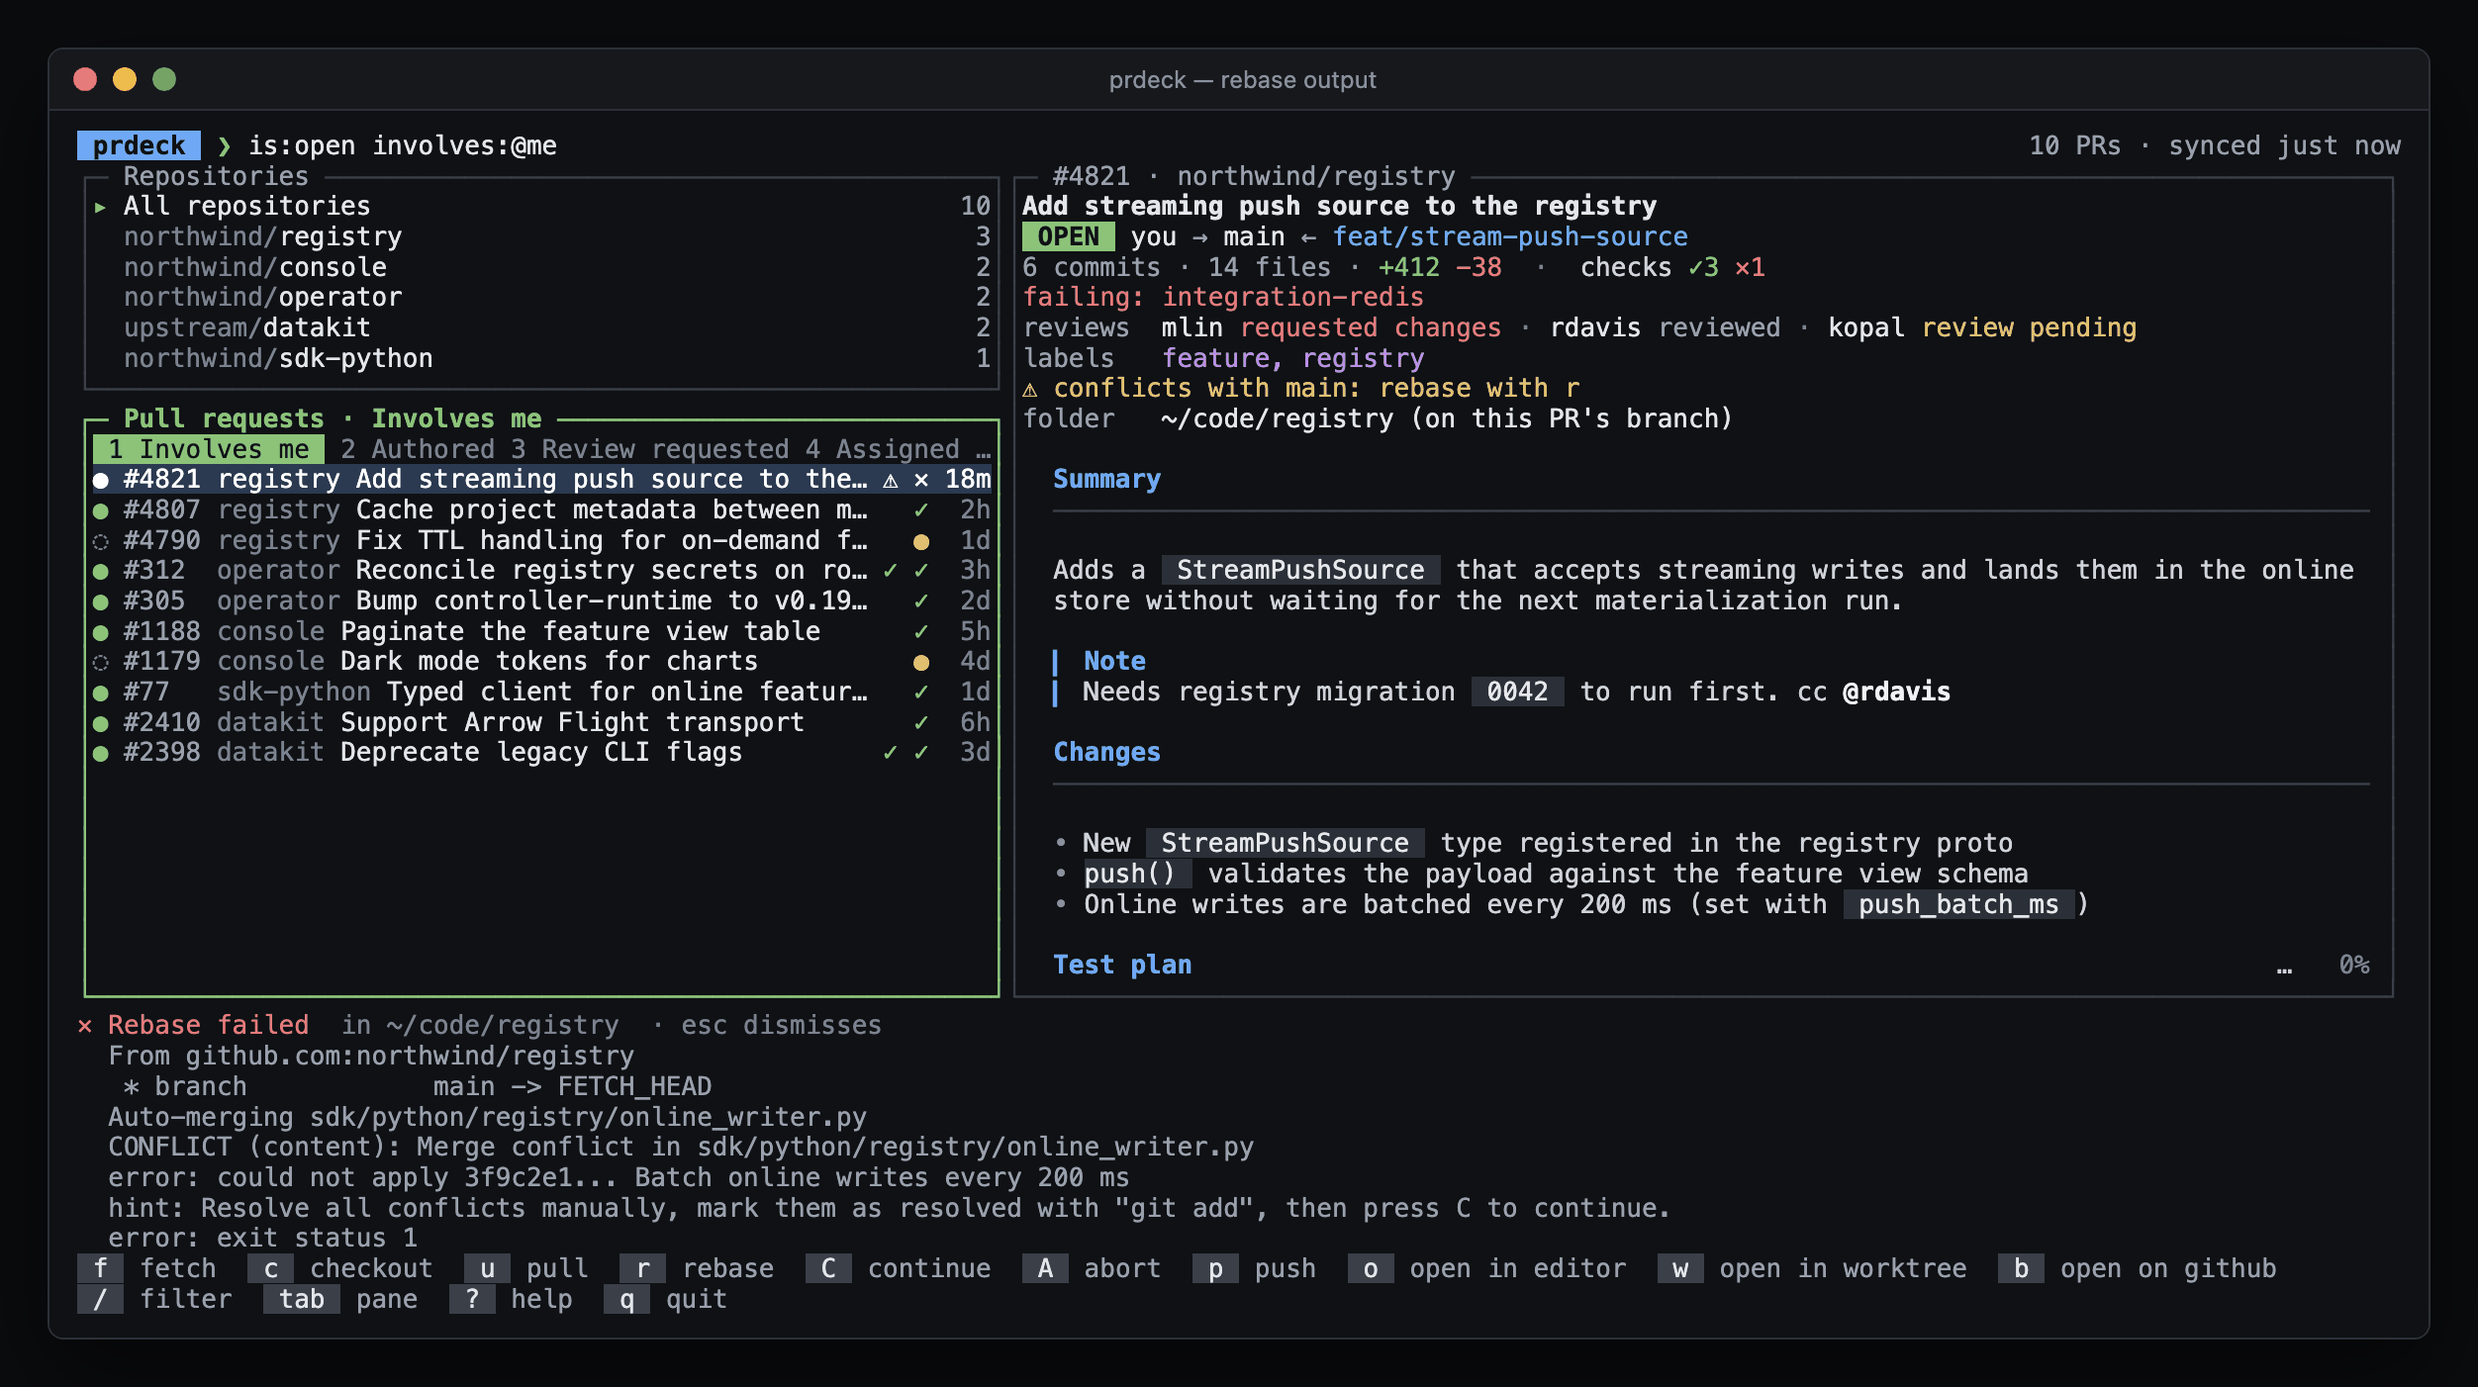
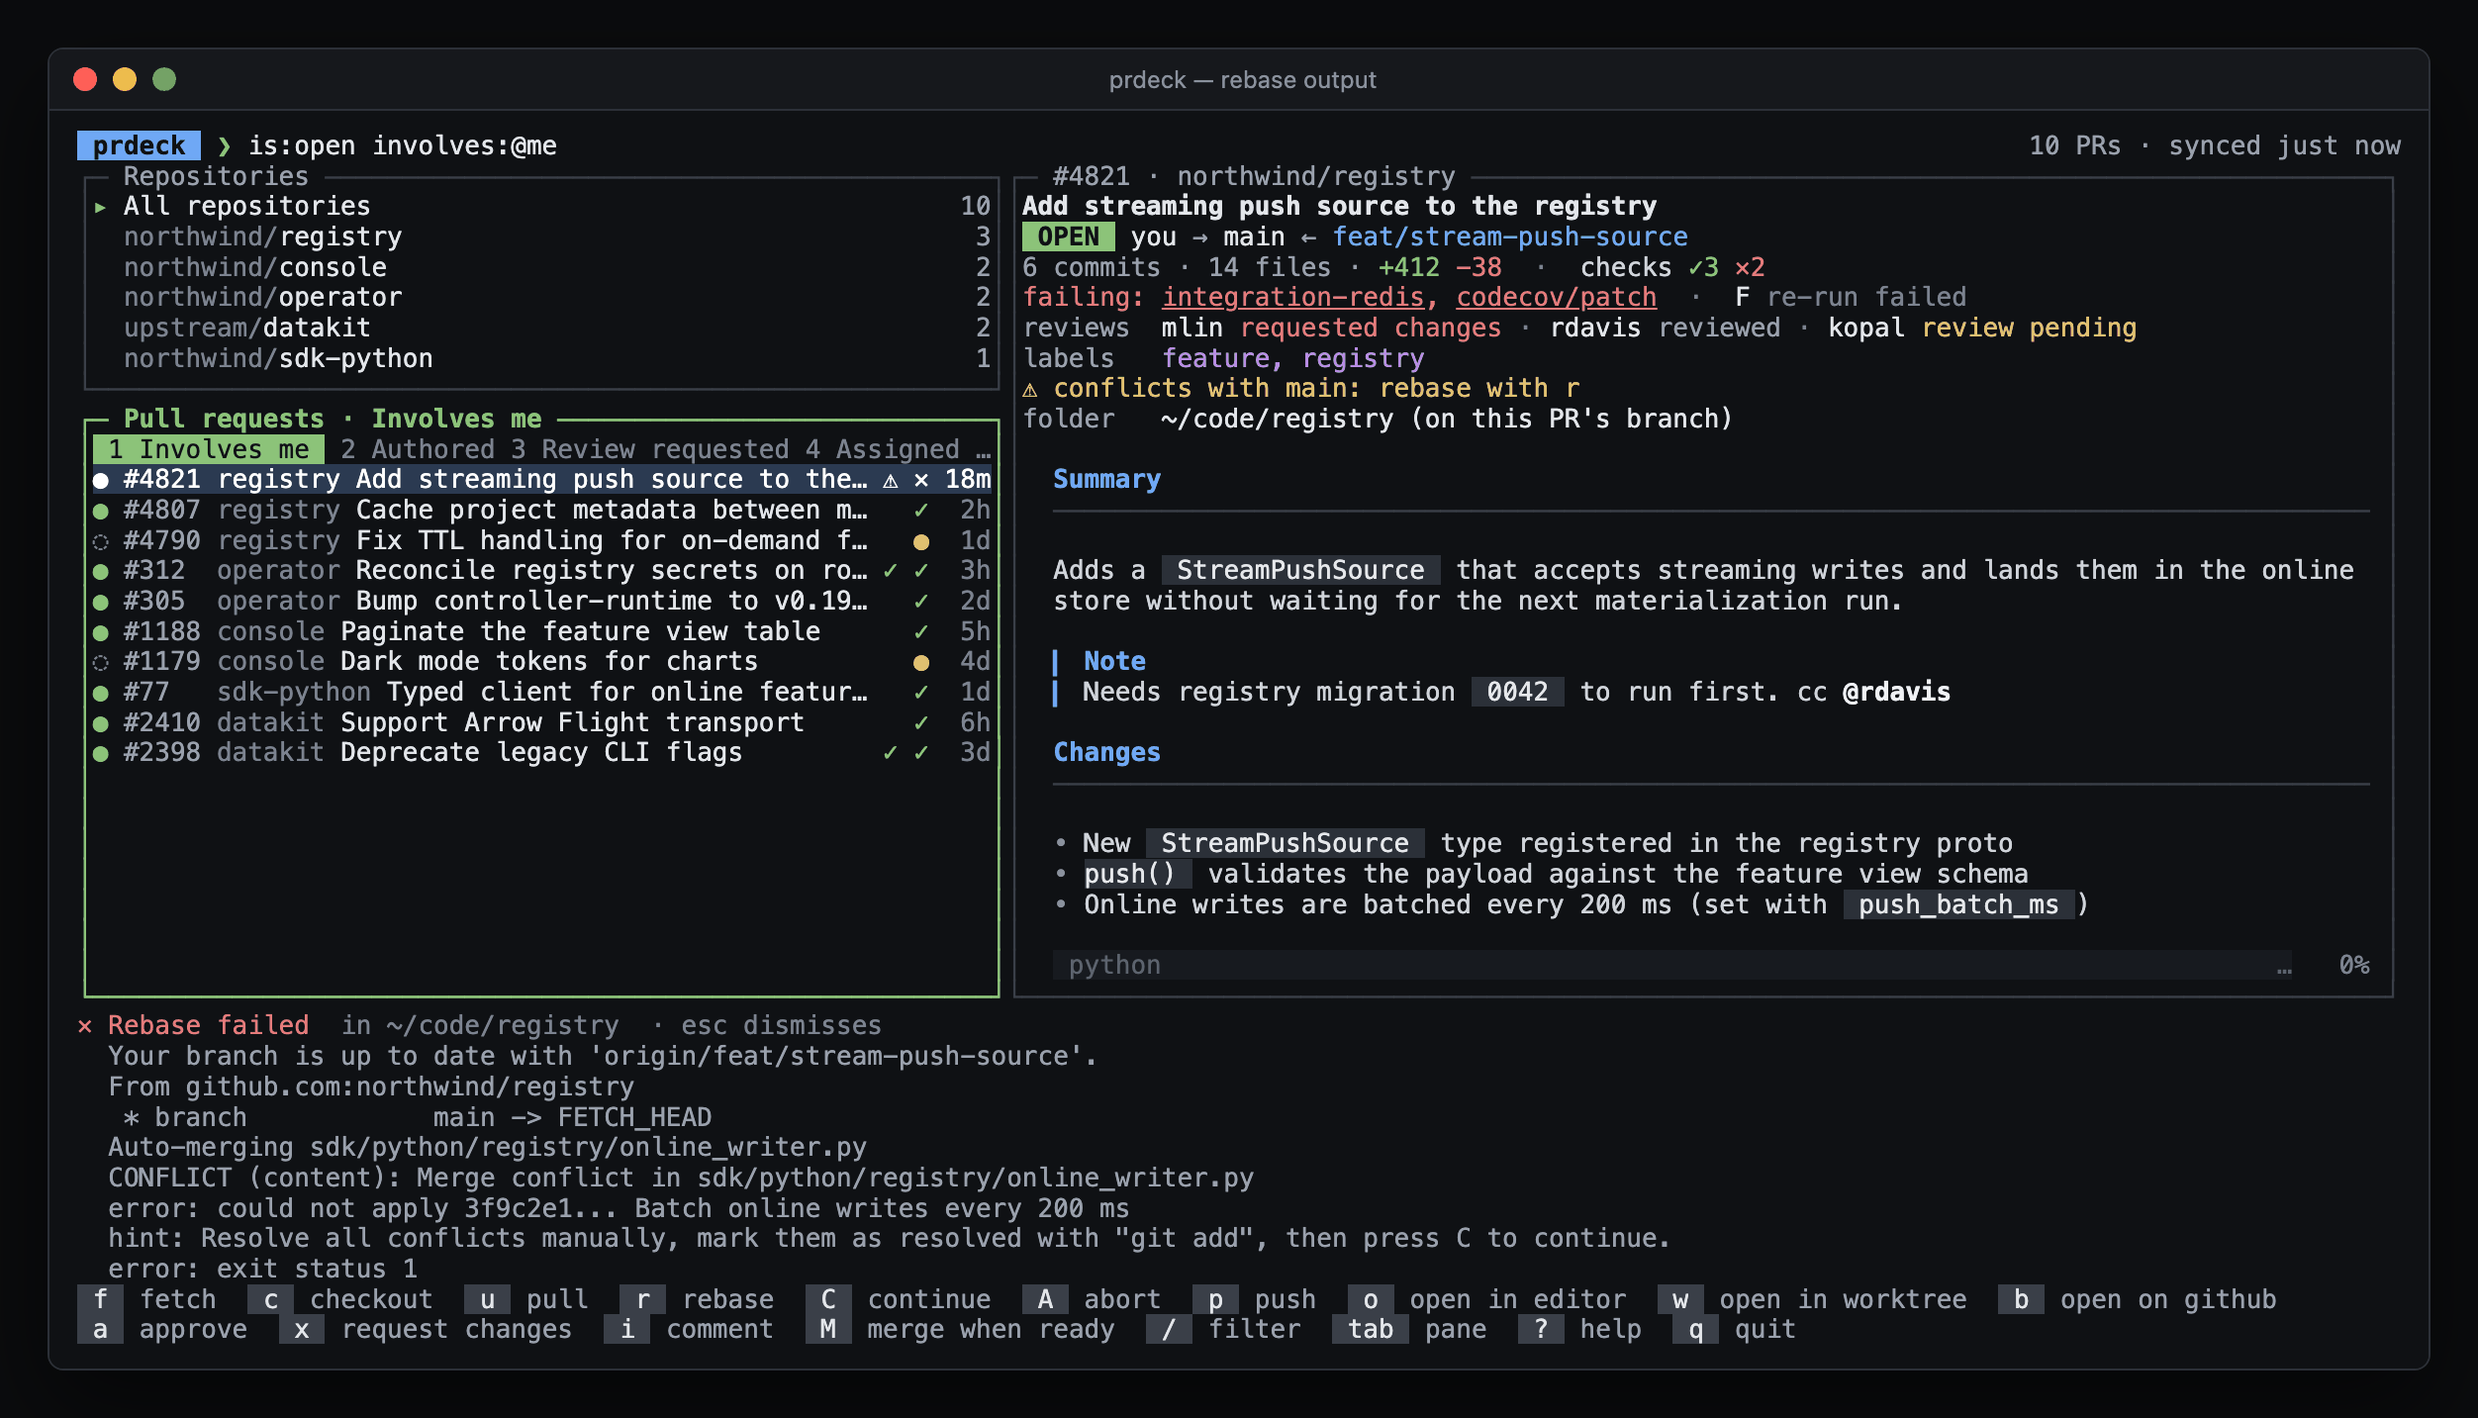
Document review and merge commands
- README: the a x i M keys, review and merge in the terminal and on the
  desktop, and four screenshots from the demo.
- ADR 0016: why these are core actions rather than gh shell lines, how
  Merge when ready picks the merge method and handles ready, unstable and
  no-auto-merge PRs, and why the desktop keeps one review box.
- The screenshot script takes the approve and merge shots; the terminal
  shots are taken again, since the key bar now lists the new commands.

diff --git a/README.md b/README.md
@@ -18,8 +18,10 @@ A dashboard for the pull requests you're involved in, in the terminal and on the
 | **Uncommitted changes**: stash or drop them first, your choice | **`r` rebase**: the exact commands, run only on `enter` |
 | ![Rebase output](docs/screenshots/conflict.png) | ![Help](docs/screenshots/help.png) |
 | **Output**: conflicts show right away; fix them, then `C` | **`?` help**: every key and the command it runs |
-| ![Re-run failed](docs/screenshots/rerun.png) | |
-| **`F` re-run failed**: failing checks link to their logs; only the failed jobs run again | |
+| ![Re-run failed](docs/screenshots/rerun.png) | ![Approve](docs/screenshots/approve.png) |
+| **`F` re-run failed**: failing checks link to their logs; only the failed jobs run again | **`a` approve**: shows what it sends, then approves on `enter` |
+| ![Merge when ready](docs/screenshots/merge.png) | |
+| **`M` merge when ready**: auto-merge on, so GitHub merges once checks and reviews pass | |
 
 Screenshots use sample data from `prdeck demo`. Regenerate them with `scripts/screenshots/capture.sh`.
 
@@ -55,6 +57,9 @@ prdeck config init         # write a starter config
 | `o` | Check out the PR's branch and open your clone in your editor (Zed by default) |
 | `w` | Open the PR in a separate git worktree instead |
 | `b` | Open the PR on GitHub |
+| `a` | Approve someone else's PR (shows it first; `enter` sends) |
+| `x` `i` | Request changes, or comment: asks for the text, then posts it |
+| `M` | Merge when ready: turns on auto-merge, or merges now if nothing is left to wait for |
 | `F` | Re-run the failed GitHub Actions jobs, when CI failed |
 | `L` | Find your clone of this repo with fuzzy search; saved to the config |
 | `?` | Help: every key and the exact command it runs |
@@ -70,6 +75,8 @@ PR descriptions and comments render like on GitHub, inside the pane:
 `prdeck md FILE [WIDTH]` renders a markdown file the same way, to check something without opening a PR.
 
 **Failing checks** are listed under the PR's title, each name a link to its log (hold ⌘ to click with mouse support on). `F` re-runs only the failed jobs of each failed GitHub Actions run, with your gh login; checks from other CI services, such as Codecov, are skipped and named, since they re-run from their own page.
+
+**Review and merge** with your gh login, no clone needed: `a` approves, `x` asks what should change and requests changes, `i` asks for a comment and posts it. `M` (merge when ready) turns on GitHub's auto-merge, so GitHub merges once checks and reviews pass, with the merge method GitHub's own button starts with (your last used one the repo allows). A PR that is ready already is merged at once. A repo that does not allow auto-merge, or checks that fail but are not required, are explained instead; when GitHub refuses, its own words are shown. The PR view then shows the new review, comment or `auto-merge on`.
 
 With mouse support on, hold Option (or Shift, depending on your terminal) to select text. Set `ui.mouse: false` to turn it off.
 
@@ -107,9 +114,12 @@ The same PRs and commands in a native window, built with [GPUI](https://www.gpui
 | **Files changed**: every file's diff, each one collapsible | **Inline review**: click a line number to comment; send them all as one review |
 | ![Checks](docs/screenshots/desktop-checks.png) | ![Re-run failed](docs/screenshots/desktop-rerun.png) |
 | **Checks**: click one to open its log | **Re-run failed**: only the failed jobs, with your gh login |
+| ![Merge when ready](docs/screenshots/desktop-merge.png) | ![Auto-merge on](docs/screenshots/desktop-automerge.png) |
+| **Merge when ready** next to Approve; asks first | **Auto-merge on**: GitHub merges once checks and reviews pass |
 
 - **PR text like github.com**: images (your GitHub login is used for GitHub-hosted ones), `<img width>`, `<details>`, tables of screenshots side by side, syntax-highlighted code, `[!NOTE]`/`[!WARNING]` boxes, emoji and linked @mentions. Text is selectable.
-- **Comment and review**: a reply box at the end of every conversation (Write / Preview) with Comment, Approve and Request changes, and Reply on each code thread. Drafts are kept per PR. `⌘⇧C` or the Review button jumps there; `⌘↵` comments.
+- **Comment and review**: a reply box at the end of every conversation (Write / Preview) with Comment, Approve and Request changes, and Reply on each code thread. Drafts are kept per PR. `⌘⇧C`, the Review button, or the `a` `x` `i` keys jump there; `⌘↵` comments.
+- **Merge when ready** (or `M`), next to Approve: the same as in the terminal, confirmed in the command bar. Once auto-merge is on, the side panel and the reply box say so.
 - **Diffs**: click a commit to see what it changed (Previous / Next steps through them), or open Files changed for every file's diff with line numbers. Big PRs open the first ~1,500 lines and keep the rest one click away.
 - **Inline review**: click a line number in Files changed to comment on that line. Add a single comment, or start a review: comments stay pending under their lines until you Submit review, Approve or Request changes, and go to GitHub together. Existing review threads show at their lines with Reply.
 - **Checks**: every check opens its log in the browser; the side panel lists the first few failing ones. When CI failed, **Re-run failed** (or `F`) re-runs only the failed GitHub Actions jobs.
@@ -137,12 +147,13 @@ cargo run --release             # your PRs (uses your gh login)
 | `⌘R` | refresh |
 | `⌘O` / `⌘⇧O` | open in editor / on GitHub |
 | `⌘⇧C` / `⌘↵` | write a comment or review / post the comment |
+| `a` `x` `i` / `M` | open the reply box / merge when ready |
 | `esc` | back from a commit to the list |
 | `⌘B` | hide the sidebar |
 | `⌘,` | edit the config |
 | your command keys | run that command; `esc` closes the command bar |
 
-Screenshots: `cargo run --features snapshot -- --demo --snapshot out.png [--state commits|checks|checks,rerun|goto|palette|changes|noclone]`; add `--signed-out --setup --state setup-signin` for setup.
+Screenshots: `cargo run --features snapshot -- --demo --snapshot out.png [--state commits|checks|checks,rerun|compose,merge|compose,merge,confirm|goto|palette|changes|noclone]`; add `--signed-out --setup --state setup-signin` for setup.
 
 ## Configuration
 

diff --git a/docs/adr/0016-review-and-merge-commands.md b/docs/adr/0016-review-and-merge-commands.md
@@ -1,0 +1,39 @@
+# 0016. Approve, Request changes, Comment and Merge when ready as commands
+
+- Status: accepted
+- Date: 2026-11-04
+
+## Context
+
+The desktop app comments and reviews from its review box ([0012](0012-comment-and-review-from-the-app.md)), but the terminal app had no way to, and neither app could merge: approving a PR and setting it to merge once CI passes meant opening GitHub. These are one-key jobs.
+
+## Decision
+
+- Four built-in commands ([0003](0003-yaml-config-and-custom-commands.md)), on the bar and in `?` help, moved or hidden by name like the others: **Approve** `a` (`when: others`, asks first), **Request changes** `x` (`when: others`, asks what should change), **Comment** `i` (asks for the text) and **Merge when ready** `M` (`when: ready`, asks first).
+- They are config commands with built-in actions that the core runs (`approve`, `request_changes`, `comment`, `automerge`), not shell lines calling `gh pr review|comment|merge`. The core already sends GitHub's GraphQL writes with the gh login ([0002](0002-github-through-the-gh-login.md)), so these commands send exactly what the desktop's review box sends. They need no clone (shell commands run in the clone), GitHub's refusal comes back in its own words instead of a `gh` exit status, and the demo can model them. The plan still shows the matching `gh pr …` command, so `y` copies something that does the same.
+- Approve asks first: an approval cannot be taken back, and it can be the last thing auto-merge was waiting for. Request changes and Comment ask for their text, which is their confirmation. The terminal checks `when:` before asking for text, so Request changes on your own PR says so before you type.
+- **Merge when ready** reads the PR from GitHub again when it runs. The detail query now also returns `mergeStateStatus`, `autoMergeRequest` and the base repo's `autoMergeAllowed`, allowed merge methods and `viewerDefaultMergeMethod`. Then:
+  - The merge method is the viewer's default (what GitHub's merge button starts with) when the repo allows it, else the first one it allows. Nothing is hard-coded.
+  - `CLEAN` or `HAS_HOOKS`: nothing is left to wait for, and GitHub refuses auto-merge (“Pull request is in clean status”), so it merges now with `mergePullRequest`, pinned to the head commit whose checks passed (`expectedHeadOid`).
+  - `UNSTABLE`: mergeable now, but checks are failing or still running and none of them is required. GitHub would merge it now and refuses auto-merge; PR Deck does not merge red or unfinished checks, and says why.
+  - A repo that does not allow auto-merge is told so, with the setting that turns it on. Auto-merge that is already on is reported as such. `UNKNOWN` (GitHub works mergeability out in the background) is asked again twice, two seconds apart.
+  - Otherwise it calls `enablePullRequestAutoMerge`, and GitHub merges once checks and reviews pass. When GitHub refuses, its message is shown without the GraphQL wrapping.
+- After any of them succeeds the PR is loaded again, so the new review, comment or auto-merge shows: `merge  auto-merge on · squash and merge · by you` in the terminal; on the desktop, in the side panel and in place of the button. A PR merged at once shows as Merged.
+- **Desktop**: the review box stays the one place that comments and reviews. Approve, Request changes and Comment are left out of the bottom bar, and their keys open the review box instead of asking again in the command bar. Merge when ready is a button next to Approve, with its key; it runs the command, so it asks first in the command bar like everywhere else. The bottom bar leaves it out too, since the review box has it.
+- The demo approves, comments and turns on auto-merge in its sample PRs and says it sent nothing. Its repos cover the cases: northwind squashes and allows auto-merge, upstream/datakit merges and does not, and #312 is ready to merge now.
+
+## Consequences
+
+- From reading a PR to approving it and setting it to merge is `a` `enter` `M` `enter` in the terminal.
+- Like commenting, these are public and immediate once confirmed.
+- Approve's `confirm` cannot be turned off by an override, the rule for every built-in (an override can only add `confirm`).
+- Turning auto-merge off is not offered; GitHub's PR page does that.
+- Repos that require a merge queue are not handled separately: when GitHub wants the queue, its answer is shown as is.
+- Details saved before this version have no merge state; Merge when ready always asks GitHub first, so only the plan's `gh` line may lack the method.
+
+## Alternatives considered
+
+- **Shell commands calling `gh pr review`, `gh pr comment` and `gh pr merge --auto`.** No code in the core, but they run in the clone and fail without one, they are a second path beside the review box's GraphQL writes, and a refusal is only a failed shell line. The demo could not show them.
+- **Always squash, or always merge.** Simple, but wrong for repos that allow only the other one, and not what the user's own GitHub button does.
+- **Merge `UNSTABLE` PRs now, as GitHub would.** In repos without required checks that merges while CI is still running, the opposite of "when ready".
+- **Asking for review text in the desktop's command bar.** A second, one-line review box next to the real one.

diff --git a/docs/adr/README.md b/docs/adr/README.md
@@ -28,6 +28,8 @@ This folder holds the architecture decision records (ADRs): one short file per d
 | A commit opened: message, author and what it changed | Inline review: comment on lines, pending until submitted |
 | ![Checks](../screenshots/desktop-checks.png) | ![Re-run failed](../screenshots/desktop-rerun.png) |
 | Checks open their logs; Re-run failed when CI failed | Only the failed GitHub Actions jobs run again |
+| ![Merge when ready](../screenshots/desktop-merge.png) | ![Auto-merge on](../screenshots/desktop-automerge.png) |
+| Merge when ready, next to the review buttons, asks first | Auto-merge on: GitHub merges once checks and reviews pass |
 
 All screenshots use the sample data from `prdeck demo` / `--demo`.
 
@@ -121,5 +123,6 @@ sequenceDiagram
 | [0013](0013-diffs-in-the-app.md) | Diffs in the app |
 | [0014](0014-inline-review.md) | Inline review on the diff |
 | [0015](0015-checks-link-to-their-logs-and-re-run.md) | Checks link to their logs, and Re-run failed |
+| [0016](0016-review-and-merge-commands.md) | Approve, Request changes, Comment and Merge when ready as commands |
 
 To add a record, copy the shape of an existing one (Status, Context, Decision, Consequences, Alternatives) and give it the next number. A record is not rewritten when things change; a new one supersedes it.
